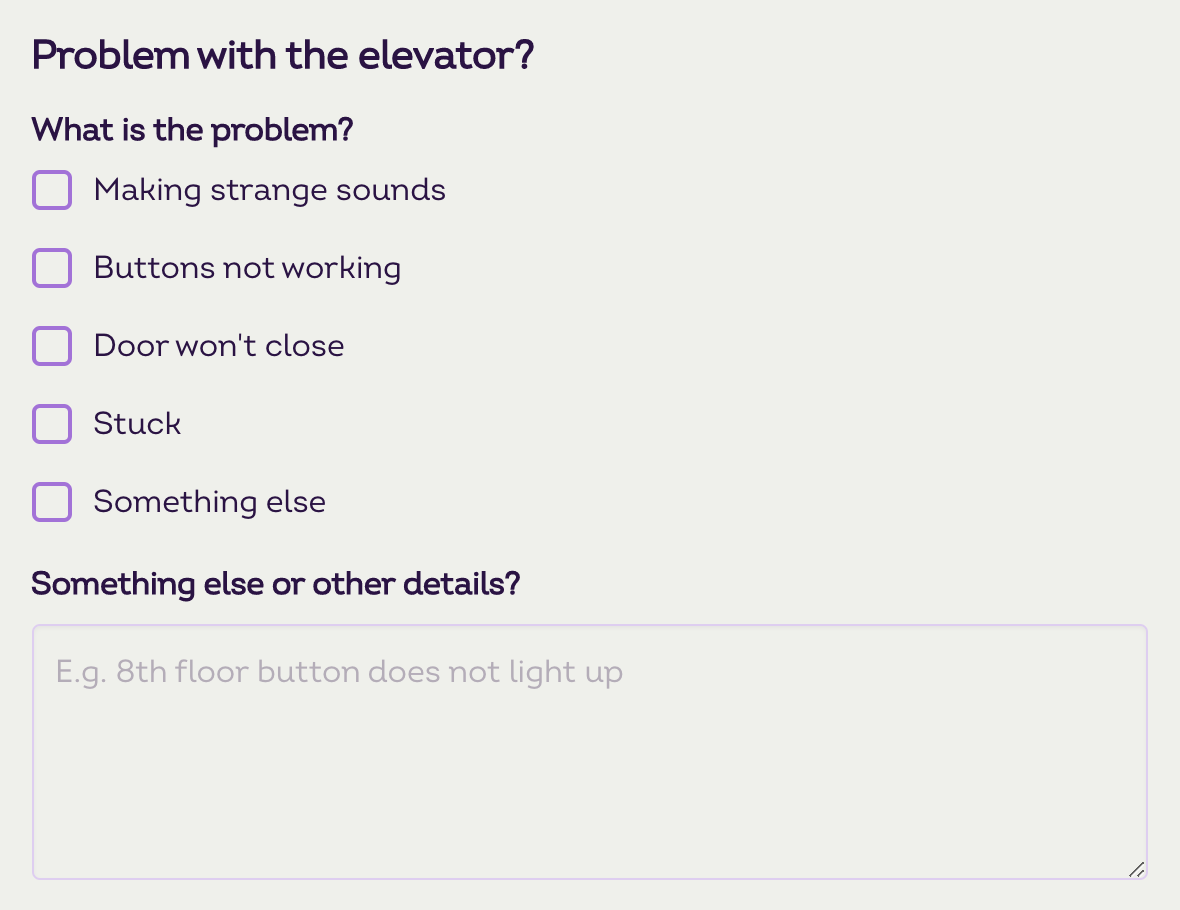
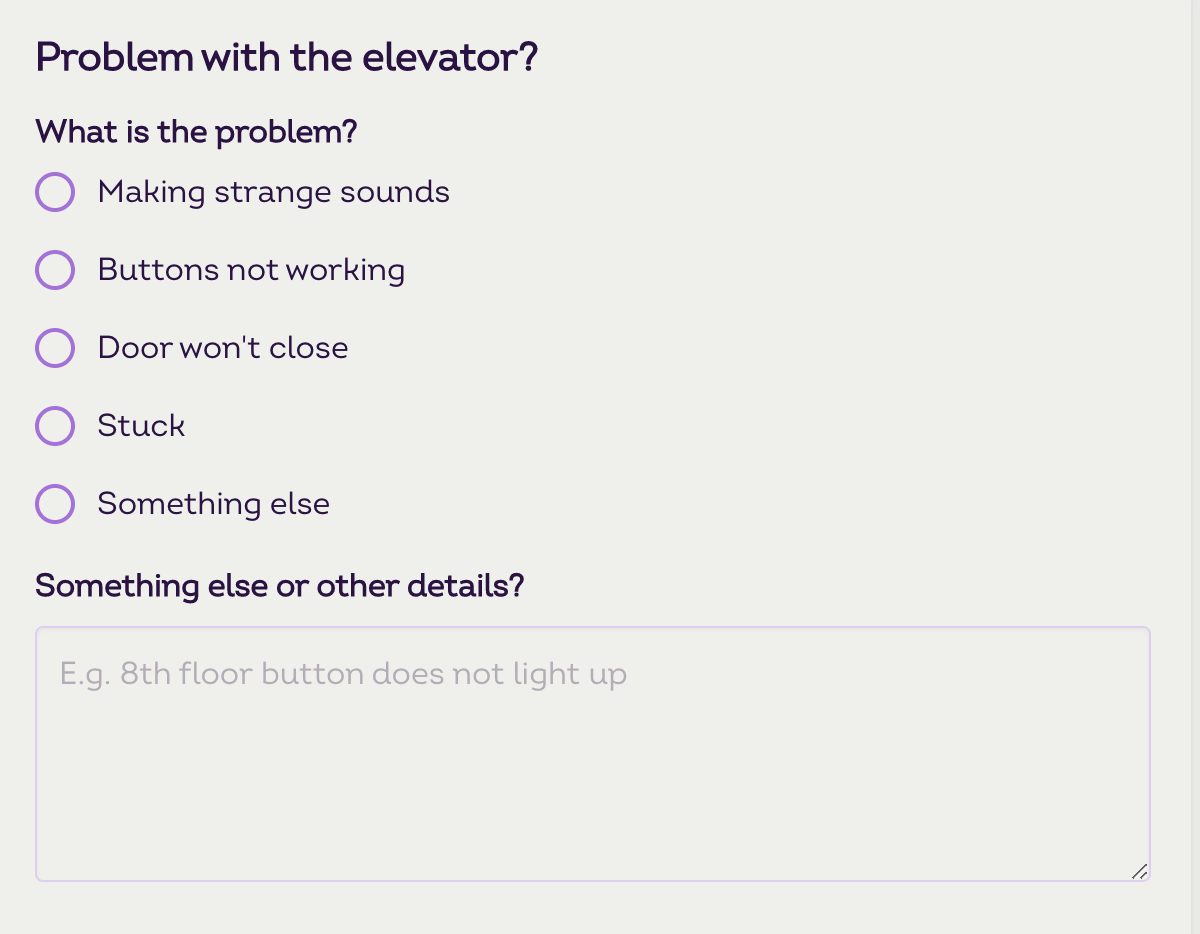
Updated capture supply requests how-to and replace maintenance request how-to with problem report

diff --git a/app/docs/.vuepress/config.js b/app/docs/.vuepress/config.js
@@ -197,8 +197,8 @@ module.exports = {
                 path: '/how-to/capture-it-requests',
               },
               {
-                title: 'Capture maintenance requests',
-                path: '/how-to/capture-maintenance-requests',
+                title: 'Capture problem reports',
+                path: '/how-to/capture-problem-reports',
               },
               {
                 title: 'Capture rating and review feedback',

diff --git a/app/docs/how-to/capture-supply-requests.md b/app/docs/how-to/capture-supply-requests.md
@@ -13,36 +13,43 @@ Before starting, you should familiarize yourself with the [How to: Create new pa
 
 ## Supply Requests
 
-In most cases, managing supply of items within a space can be handled by a group of checkboxes indicating the items to restock and a free-form text input to capture additional details or other items not previously listed.
+In most cases, managing supply of items within a space can be handled by a group of [checkboxes](/reference/patterns.html#multiple-checkboxes) indicating the items to restock and a free-form text input to capture additional details or other items not previously listed.
 
 ### Conference Room Supplies
 
 This pattern snippet capture a supply request for a conference room.
 
 ```yaml
-type: object
-title: Conference room supplies
-required:
-  - supplies
-properties:
-  supplies:
-    type: array
-    attrs:
-      type: checkbox
-    items:
-      - enum:
-          - Whiteboard markers
-          - Whiteboard erasers
-          - A/V adapters
-          - Chairs
-          - Something else
-        type: string
-    title: What needs to be restocked?
-  additional_comment:
-    type: string
-    attrs:
-      type: textarea
-      placeholder: E.g. scissors
-    title: Something else or other details?
-additionalProperties: false
+schema:
+  type: object
+  required:
+    - supplies
+  properties:
+    supplies:
+      type: array
+      items:
+        - enum:
+            - Whiteboard markers
+            - Whiteboard erasers
+            - A/V adapters
+            - Chairs
+            - Something else
+          type: string
+      title: What needs to be restocked?
+      uniqueItems: true
+    additional_comment:
+      type: string
+      title: Something else or other details?
+descriptor:
+  properties:
+    additional_comment:
+      kind: textarea
+      attrs:
+        placeholder: E.g. Red pens
 ```
+
+<CaptionedImage
+  src="/images/how-tos/capture-conf-room-supplies.png"
+  alt="Capture conference room supply request."
+  width="85%"
+/>

diff --git a/app/docs/how-to/capture-problem-reports.md b/app/docs/how-to/capture-problem-reports.md
@@ -1,0 +1,58 @@
+---
+title: "Capture problem reports | How-to"
+description: "How do I capture problem reports?"
+---
+
+# Capture problem reports
+
+The goal of this document is to cover how to create [patterns](/reference/patterns/) that capture problem reports. These are meant to gain immediate insight to the exact area of a problem without requiring additional requests for more information.
+
+## Prerequisites
+
+Before starting, you should familiarize yourself with the [How to: Create new patterns](/how-to/create-new-patterns/) document. Only once you've read that and are confident in creating new patterns in the Admin web app, should you continue.
+
+## Maintenance Requests
+
+In most cases, fielding problem reports within a space can be handled by a group of [radio butons](/reference/patterns.html#radio-buttons) indicating the common problems to report and a free-form text input to capture additional details or other items not previously listed.
+
+### Elevator Problem
+
+This pattern snippet would capture a problem with an elevator.
+
+```yaml
+schema:
+  type: object
+  title: Problem with the elevator?
+  required:
+    - problem
+  properties:
+    problem:
+      enum:
+        - Making strange sounds
+        - Buttons not working
+        - Door won't close
+        - Stuck
+        - Something else
+      type: string
+    additional_comment:
+      type: string
+descriptor:
+  order:
+    - problem
+    - additional_comment
+  properties:
+    problem:
+      kind: enum
+      label: What is the problem?
+    additional_comment:
+      kind: textarea
+      attrs:
+        placeholder: E.g. 8th floor button does not light up
+      label: Something else or other details?
+```
+
+<CaptionedImage
+  src="/images/how-tos/capture-elevator.png"
+  alt="Capture elevator maintenance request."
+  width="85%"
+/>
